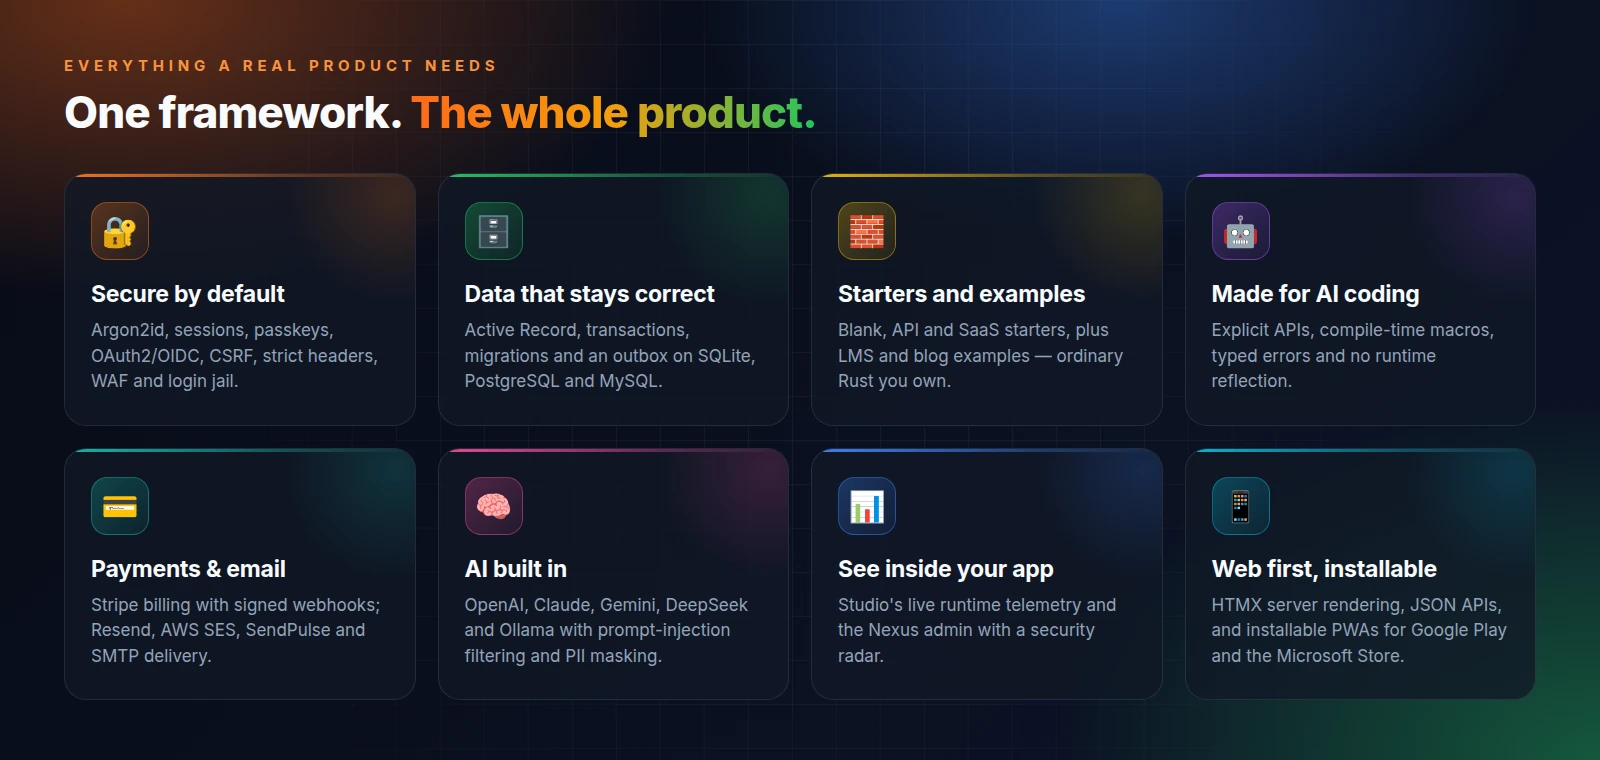
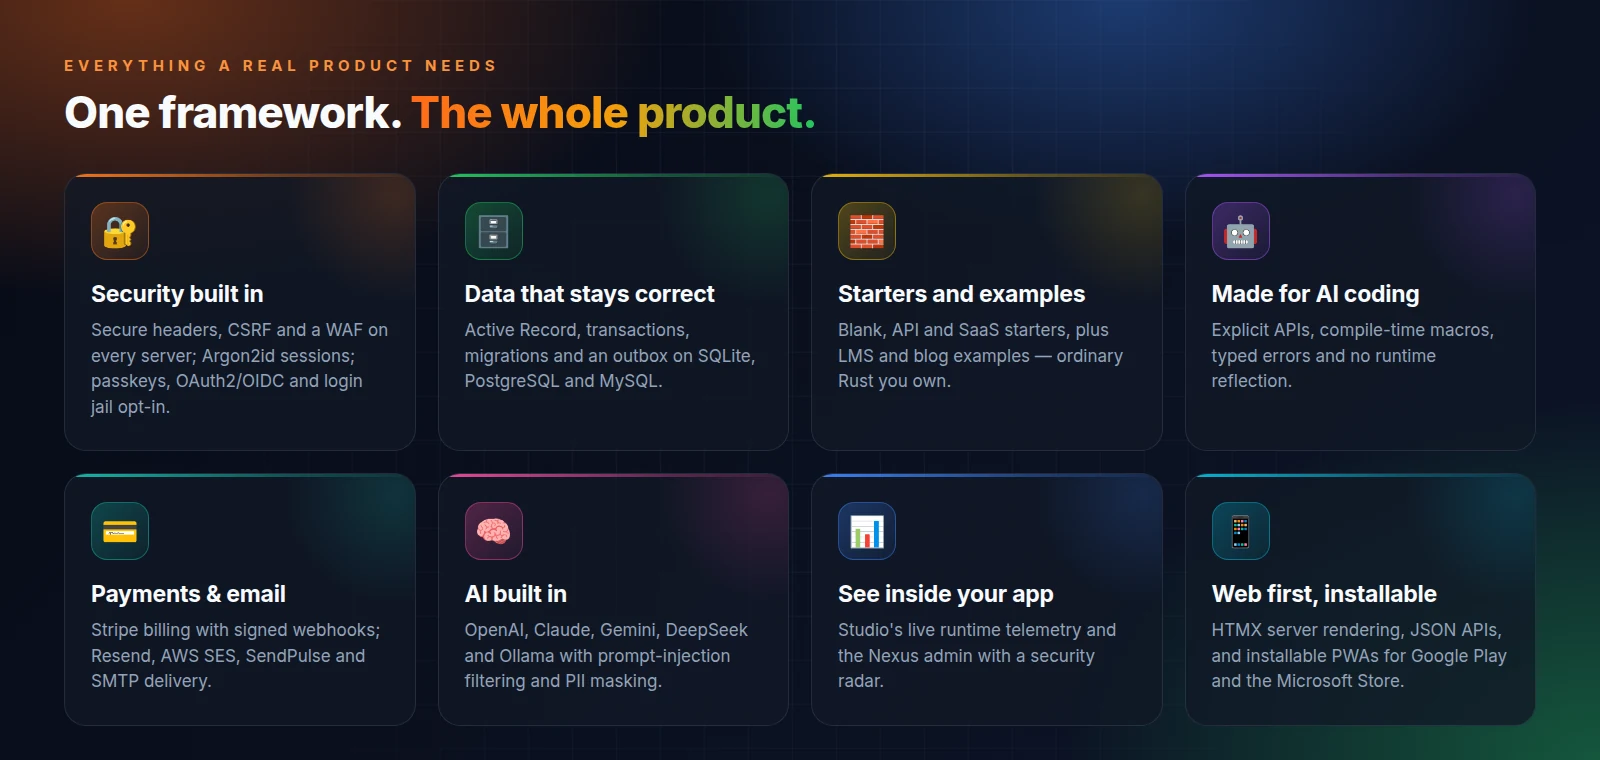
docs(readme): say which security features are opt-in in the features image

Changed region(s): [[0.0312, 0.575, 0.9688, 0.9684], [0.0625, 0.3632, 0.25, 0.5447]]

diff --git a/images/readme/source/gen_panels.py b/images/readme/source/gen_panels.py
@@ -32,7 +32,7 @@ h2 span{{background:linear-gradient(90deg,#ff6a1a,#f59e0b 50%,#22c55e);-webkit-b
 """
 
 FEATURES = [
-    ("🔐", "Secure by default", "Argon2id, sessions, passkeys, OAuth2/OIDC, CSRF, strict headers, WAF and login jail.", "#f97316"),
+    ("🔐", "Security built in", "Secure headers, CSRF and a WAF on every server; Argon2id sessions; passkeys, OAuth2/OIDC and login jail opt-in.", "#f97316"),
     ("🗄", "Data that stays correct", "Active Record, transactions, migrations and an outbox on SQLite, PostgreSQL and MySQL.", "#22c55e"),
     ("🧱", "Starters and examples", "Blank, API and SaaS starters, plus LMS and blog examples — ordinary Rust you own.", "#eab308"),
     ("🤖", "Made for AI coding", "Explicit APIs, compile-time macros, typed errors and no runtime reflection.", "#a855f7"),

diff --git a/README.md b/README.md
@@ -165,7 +165,7 @@ curl http://127.0.0.1:3000/api/health
   <picture>
     <source media="(prefers-color-scheme: dark)" srcset="https://raw.githubusercontent.com/Rullst/Rullst/main/images/readme/features-dark.webp">
     <source media="(prefers-color-scheme: light)" srcset="https://raw.githubusercontent.com/Rullst/Rullst/main/images/readme/features-light.webp">
-    <img src="https://raw.githubusercontent.com/Rullst/Rullst/main/images/readme/features-dark.webp" alt="One framework, the whole product. Secure by default: Argon2id, sessions, passkeys, OAuth2/OIDC, CSRF, strict headers, WAF and login jail. Data that stays correct: Active Record, transactions, migrations and an outbox on SQLite, PostgreSQL and MySQL. Starters and examples: Blank, API and SaaS starters, plus LMS and blog examples, all ordinary Rust you own. Made for AI coding: explicit APIs, compile-time macros, typed errors, no runtime reflection. Payments and email: Stripe billing with signed webhooks; Resend, AWS SES, SendPulse and SMTP. AI built in: OpenAI, Claude, Gemini, DeepSeek and Ollama with prompt-injection filtering and PII masking. See inside your app: Studio telemetry and the Nexus admin with a security radar. Web first, installable: HTMX, JSON APIs, and installable PWAs for Google Play and the Microsoft Store." width="100%">
+    <img src="https://raw.githubusercontent.com/Rullst/Rullst/main/images/readme/features-dark.webp" alt="One framework, the whole product. Security built in: secure headers, CSRF and a WAF on every server; Argon2id sessions; passkeys, OAuth2/OIDC and login jail opt-in. Data that stays correct: Active Record, transactions, migrations and an outbox on SQLite, PostgreSQL and MySQL. Starters and examples: Blank, API and SaaS starters, plus LMS and blog examples, all ordinary Rust you own. Made for AI coding: explicit APIs, compile-time macros, typed errors, no runtime reflection. Payments and email: Stripe billing with signed webhooks; Resend, AWS SES, SendPulse and SMTP. AI built in: OpenAI, Claude, Gemini, DeepSeek and Ollama with prompt-injection filtering and PII masking. See inside your app: Studio telemetry and the Nexus admin with a security radar. Web first, installable: HTMX, JSON APIs, and installable PWAs for Google Play and the Microsoft Store." width="100%">
   </picture>
 </p>
 
